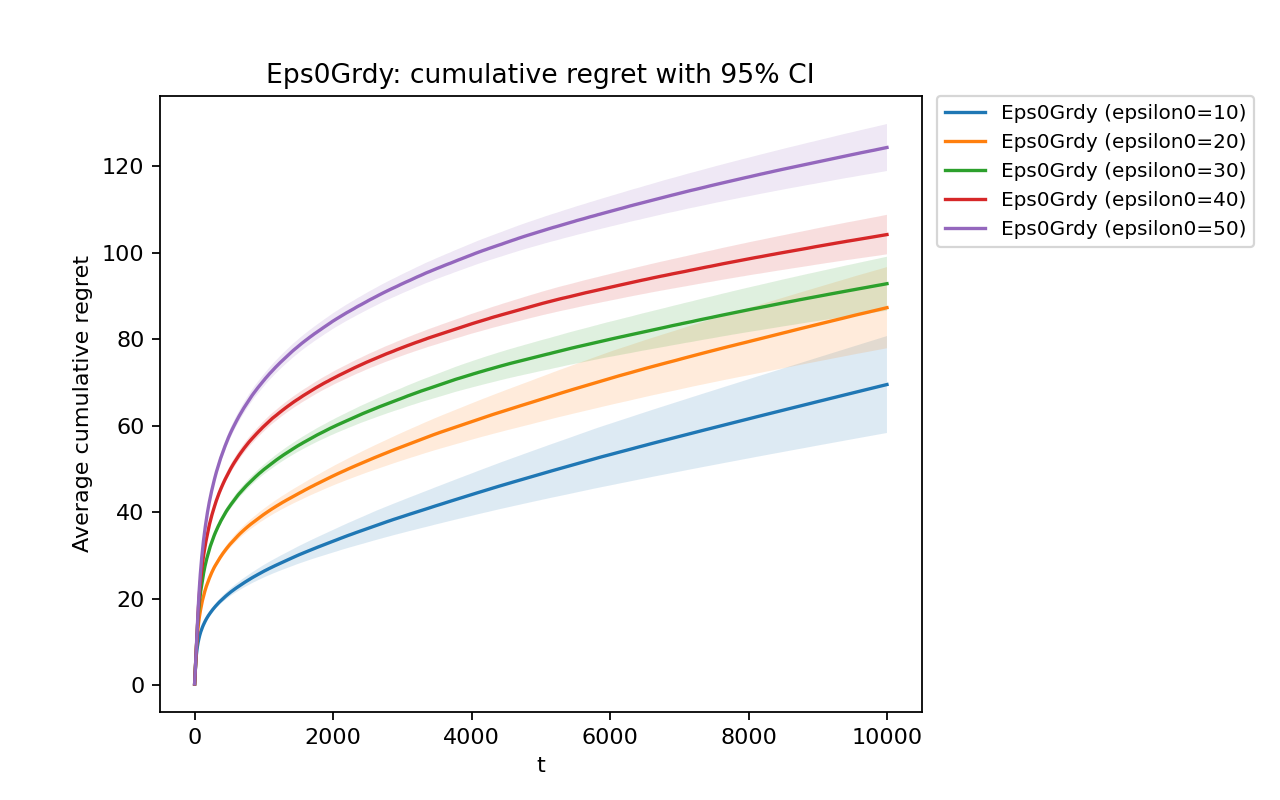
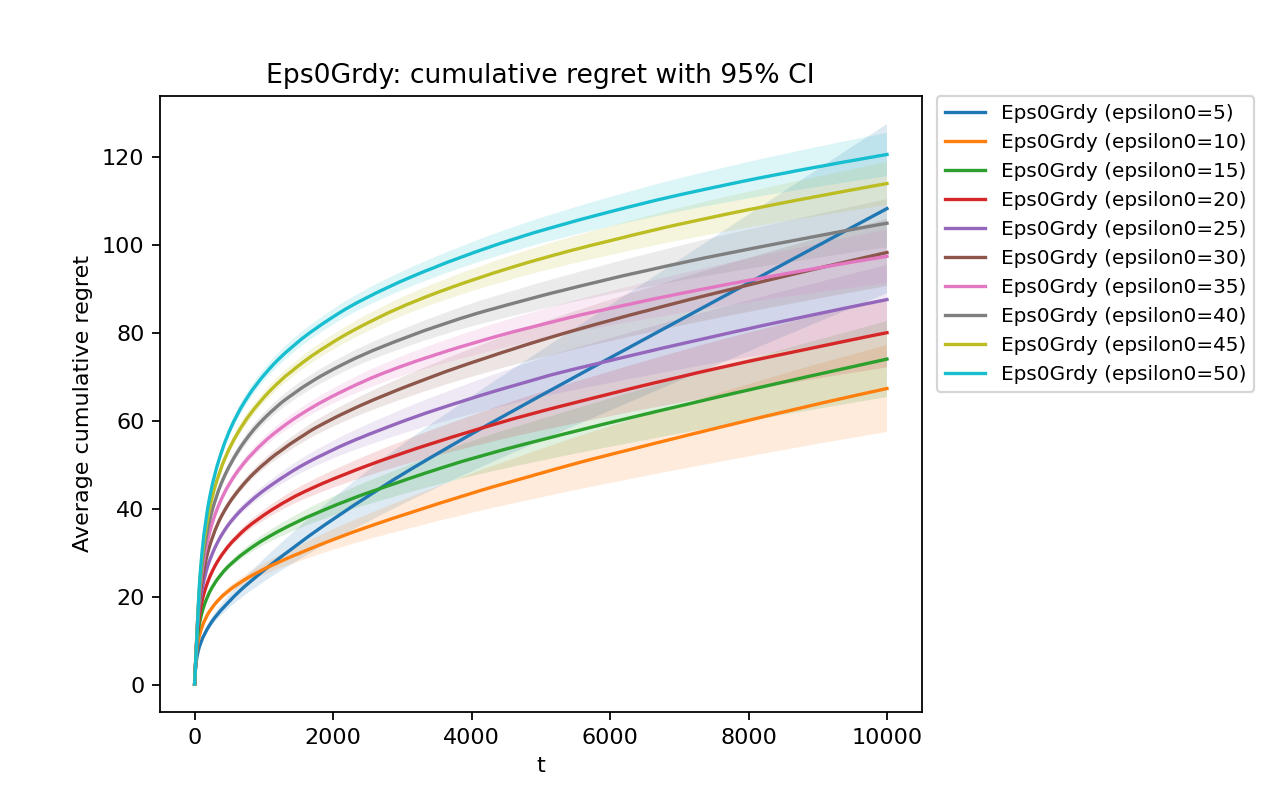
sd

diff --git a/script/Task_3_performance.py b/script/Task_3_performance.py
@@ -15,10 +15,10 @@ from src.bandits import Gang_of_Bandits
 
 # bulk algorithms
 from src.etc import ETCBulkAlgorithm
-from src.greedy import GreedyBulkAlgorithm, EpsilonGreedyFixedBulkAlgorithm, EpsilonGreedyDecreasingBulkAlgorithm
-from src.ucb import UCBBulkAlgorithm, BernoulliUCBBulkAlgorithm
-from src.boltzmann import BoltzmannExplorationBulkAlgorithm, BoltzmannGumbelTrickBulkAlgorithm, BoltzmannArbitraryNoiseBulkAlgorithm, GumbelScaledBonusBulkAlgorithm
-from src.gradient import PolicyGradientBulkAlgorithm, PolicyGradientBaselineBulkAlgorithm
+from src.greedy import EpsilonGreedyFixedBulkAlgorithm, EpsilonGreedyDecreasingBulkAlgorithm
+from src.ucb import UCBBulkAlgorithm
+from src.boltzmann import BoltzmannExplorationBulkAlgorithm
+from src.gradient import PolicyGradientBulkAlgorithm
 
 # global utilities
 from util.io_helpers import OUT_DIR, _ensure_dir
@@ -89,7 +89,7 @@ def _algo_specs() -> List[AlgoSpec]:
         AlgoSpec(
             name="ETC",
             factory=lambda b, p: ETCBulkAlgorithm(b, exploration_rounds=p["m"]),
-            grid=linspace_params(1, 50, 50, key="m", cast=int),
+            grid=linspace_params(6, 30, 25, key="m", cast=int),
             plotgrid=[4, 6, 8, 10, 12, 14, 16, 18, 20, 22],
         ),
 
@@ -97,30 +97,30 @@ def _algo_specs() -> List[AlgoSpec]:
         AlgoSpec(
             name="EpsGrdy",
             factory=lambda b, p: EpsilonGreedyFixedBulkAlgorithm(b, epsilon=p["epsilon"]),
-            grid=linspace_params(0.01, 0.50, 50, key="epsilon", round_to=6),
-            plotgrid=[0.025, 0.0375, 0.05, 0.0625, 0.075, 0.0875, 0.1, 0.1125, 0.125, 0.1375],
+            grid=linspace_params(0.002, 0.10, 50, key="epsilon", round_to=6),
+            plotgrid=[0.1,0.2,0.3,0.4,0.5,0.6,0.7,0.8,0.9,1],
         ),
         AlgoSpec(
             name="Eps0Grdy",
             factory=lambda b, p: EpsilonGreedyDecreasingBulkAlgorithm(b, epsilon0=p["epsilon0"]),
             grid=linspace_params(1, 50, 50, key="epsilon0", round_to=6),
-            plotgrid=[5, 10, 15, 20, 25, 30, 35, 40, 45, 50],
+            plotgrid=[4, 6, 8, 10, 12, 14, 16, 18, 20, 22],
         ),
 
         # UCB family
         AlgoSpec(
             name="UCB",
             factory=lambda b, p: UCBBulkAlgorithm(b, delta=p["delta"]),
-            grid=linspace_params(0.01, 0.50, 50, key="delta", round_to=6),
-            plotgrid=[0.05, 0.10, 0.15, 0.20, 0.25, 0.30, 0.35, 0.40, 0.45, 0.50],
+            grid=linspace_params(0.02, 1, 50, key="delta", round_to=6),
+            plotgrid=[0.1,0.2,0.3,0.4,0.5,0.6,0.7,0.8,0.9,1],
         ),
 
         # Boltzmann family
         AlgoSpec(
             name="BltzSM",
             factory=lambda b, p: BoltzmannExplorationBulkAlgorithm(b, theta=p["theta"]),
-            grid=linspace_params(1, 50.00, 50, key="theta", round_to=6),
-            plotgrid=[5, 10, 15, 20, 25, 30, 35, 40, 45, 50],
+            grid=linspace_params(1, 20.00, 50, key="theta", round_to=6),
+            plotgrid=[2,4,6,8,10,12,14,16,18,20,22],
         ),
 
         # Policy gradient
@@ -274,7 +274,7 @@ def tune_parameters(
         n_steps,
         n_steps,
     ]
-    N_schedule = [20, 40, 60]
+    N_schedule = [100,300,1000]
 
     best_params = candidates[0]
     best_score = float("inf")
@@ -450,11 +450,14 @@ def best_at_n():
             os.makedirs(run_dir, exist_ok=True)
             _save_run(run_dir, res)
 
+            mean_cum_regret = float(res["cum_regret_mean"][-1])
+            mean_regret_per_pull = mean_cum_regret / float(n_steps)
+
             entry = {
                 "n_steps": n_steps,
                 "best_params": best_params,
                 "tune_score": float(tune_score),
-                "mean_final_regret": float(res["cum_regret_mean"][-1]),
+                "mean_cumulative_regret": float(res["cum_regret_mean"][-1]),
                 "dir": f"n_{n_steps}",
             }
             algo_index.append(entry)

diff --git a/script/Task_3_graphs_at_n.py b/script/Task_3_graphs_at_n.py
@@ -64,22 +64,29 @@ def plot_best_parameter_vs_n(algo_name: str, algo_index: List[Dict[str, Any]], o
     plt.close()
 
 
-def plot_best_final_regret_vs_n(algo_name: str, algo_index: List[Dict[str, Any]], out_dir: str):
+def plot_best_cumulative_regret_vs_n(algo_name: str, algo_index: List[Dict[str, Any]], out_dir: str):
     if not algo_index:
         return
 
     algo_index = sorted(algo_index, key=lambda x: x["n_steps"])
     xs = [entry["n_steps"] for entry in algo_index]
-    ys = [float(entry["mean_final_regret"]) for entry in algo_index]
+
+    ys = []
+    for entry in algo_index:
+        if "mean_cumulative_regret" in entry:
+            ys.append(float(entry["mean_cumulative_regret"]))
+        else:
+            # backward-compatible fallback for older saved data
+            ys.append(float(entry["mean_final_regret"]))
 
     plt.figure(figsize=(6.5, 4.5))
     plt.plot(xs, ys, marker="o")
     plt.xticks(xs)
     plt.xlabel("Pull count n")
-    plt.ylabel("Mean final cumulative regret")
-    plt.title(f"{algo_name}: regret of tuned parameter vs pull count")
+    plt.ylabel("Mean cumulative regret at n")
+    plt.title(f"{algo_name}: tuned cumulative regret vs pull count")
     plt.tight_layout()
-    plt.savefig(os.path.join(out_dir, "best_regret_vs_n.png"), dpi=160)
+    plt.savefig(os.path.join(out_dir, "best_cumulative_regret_vs_n.png"), dpi=160)
     plt.close()
 
 
@@ -105,7 +112,7 @@ def main():
 
         print(f"Plotting best-at-n graphs for {algo_name}")
         plot_best_parameter_vs_n(algo_name, algo_index, algo_dir)
-        plot_best_final_regret_vs_n(algo_name, algo_index, algo_dir)
+        plot_best_cumulative_regret_vs_n(algo_name, algo_index, algo_dir)
 
 
 if __name__ == "__main__":
